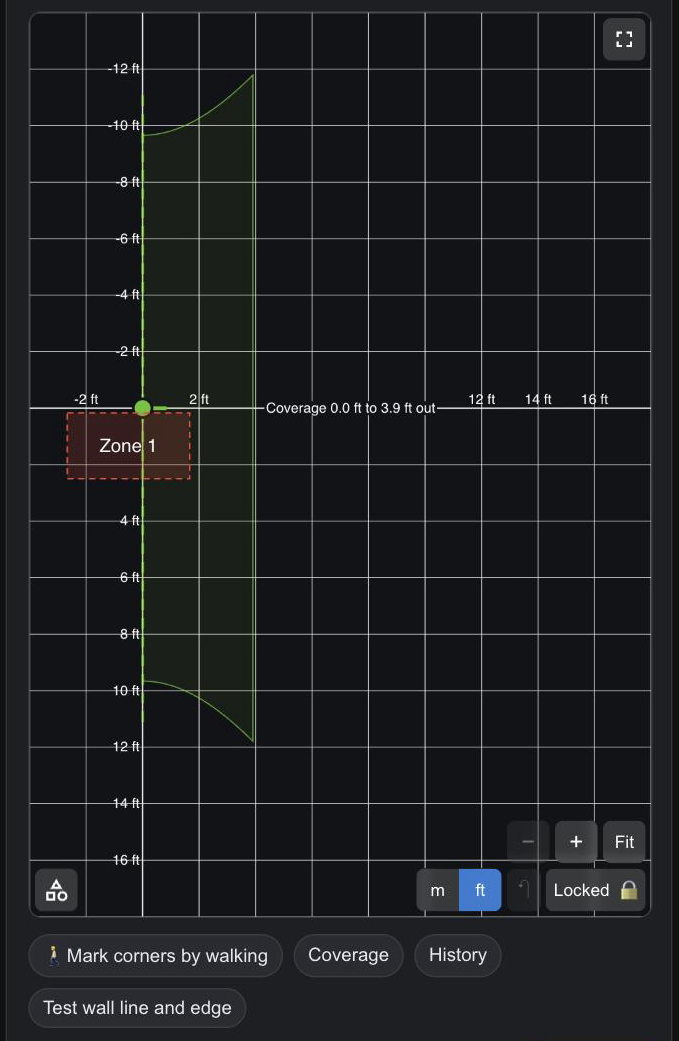
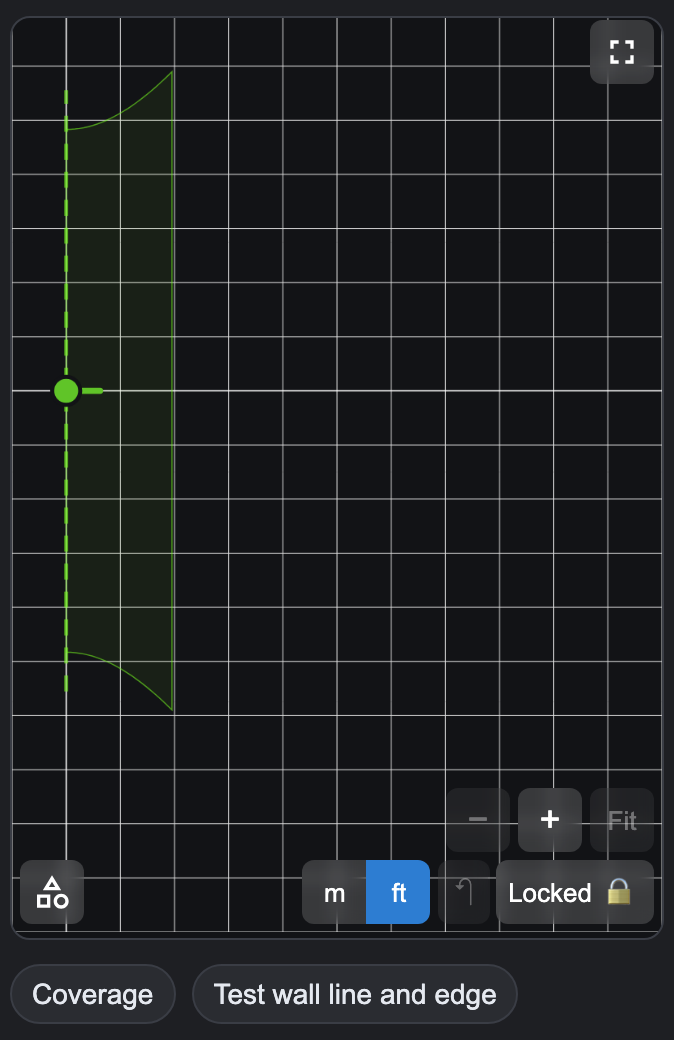
Address review on the Apollo mmWave Dashboard 2.5.2 guide
- Turned ceiling map: plain wording for 180 degrees and Expand, no
  promise that the empty space is gone, and a zone-free 90 degree
  capture rendered from the 2.5.2 card so no zone sits past the wall line.
- LD2460 Ceiling saved but Wall used: say the note stays on a wall
  mount, where to look for the radar's installation setting, and add
  the device restart, since the mode is read when the device starts.
- Alt text matches the pictures.

diff --git a/docs/products/general/setup/apollo-mmwave-mounting.md b/docs/products/general/setup/apollo-mmwave-mounting.md
@@ -30,7 +30,7 @@ Here's how the map changes on a real R PRO-1 as you switch between **Wall**, **H
 
 !!! note "Before you start"
 
-    - **Apollo mmWave Dashboard 2.5.1 or later.** To see your version, open **Apollo mmWave Dashboard** under **Settings → Marketplace** (or in **HACS** on Home Assistant 2026.10 and earlier). If **Settings → System → Updates** lists an Apollo mmWave Dashboard update, install it first, as [Update Apollo mmWave Dashboard](apollo-mmwave-dashboard-setup.md#update-apollo-mmwave) shows. Then restart Home Assistant and reload the page, as [Load the new cards](apollo-mmwave-dashboard-setup.md#load-the-new-cards) shows. Version 2.4.2 and earlier have no mounts, and on 2.5.0 a ceiling map is tall with empty space under the strip. On 2.5.1, a ceiling map turned with **Map rotation:** is a big square that's mostly empty, so update to 2.5.2 if you plan to turn it.
+    - **Apollo mmWave Dashboard 2.5.1 or later.** To see your version, open **Apollo mmWave Dashboard** under **Settings → Marketplace** (or in **HACS** on Home Assistant 2026.10 and earlier). If **Settings → System → Updates** lists an Apollo mmWave Dashboard update, install it first, as [Update Apollo mmWave Dashboard](apollo-mmwave-dashboard-setup.md#update-apollo-mmwave) shows. Then restart Home Assistant and reload the page, as [Load the new cards](apollo-mmwave-dashboard-setup.md#load-the-new-cards) shows. Version 2.4.2 and earlier have no mounts, and on 2.5.0 a ceiling map is tall with empty space under the strip. On 2.5.1, a ceiling map turned with **Map rotation:** stays square, so update to 2.5.2 if you plan to turn it.
     - **You're signed in to Home Assistant as an administrator.** Other users see the mount but can't change it.
     - **Your sensor's tab has a zone map.** If it doesn't, start with the [Apollo mmWave Dashboard setup guide](apollo-mmwave-dashboard-setup.md).
     - **The Radar setup card on that tab shows no problems.** If it offers a button such as **Set Zone Type to Disabled**, press it first. Otherwise the map can't show people.
@@ -140,11 +140,11 @@ From the ceiling, an LD2450 watches a strip of floor along one wall. That's a go
 
     !!! tip "Turned the map? It gets taller"
 
-        From 2.5.2, the map fits a turned strip. Near 90°, the strip runs down the map instead of across it, so the map gets taller than it is wide, up to 1.5 times its width. At 180°, the room for the buttons in the map's bottom corners stays under the strip. On a phone, **Expand** keeps the turned map above its panel. You should see the strip run down the map, with the radar as a green dot on the dashed wall line, as here at 90°:
+        From 2.5.2, the map changes shape to fit a turned strip. Near 90°, the strip runs down the map instead of across it, so the map gets taller than it is wide, up to 1.5 times its width. At 180°, the zoom and **Locked** buttons stay clear of the strip. On a phone, after you press **Expand**, the map stays at the top with the rest of the card under it. You should see the strip run down the map, with the radar as a green dot on the dashed wall line, as here at 90°:
 
-        ![The zone map on a Ceiling mount with Map rotation at 90 degrees, in feet and locked, on a dark theme: the map is taller than it is wide, the dashed green wall line runs down its left side with the radar as a green dot on it, the strip of coverage runs down beside the line, about 4 ft wide and 19 ft long, with the caption Coverage 0.0 ft to 3.9 ft out, Zone 1 next to the radar, and the Mark corners by walking, Coverage, History, and Test wall line and edge buttons under the map](/assets/apollo-mmwave-mount-ceiling-map-rotated.png)
+        ![The zone map on a Ceiling mount with Map rotation at 90 degrees, in feet and locked, on a dark theme: the map is taller than it is wide, the dashed green wall line runs down the map near its left edge with the radar as a green dot on it, the strip of coverage runs down beside the line on the room side, and the Coverage and Test wall line and edge buttons are under the map](/assets/apollo-mmwave-mount-ceiling-map-rotated.png)
 
-        On 2.5.1, a turned map is a big square with the strip in a small part of it. [Update to 2.5.2](apollo-mmwave-dashboard-setup.md#update-apollo-mmwave) to fix it.
+        The strip may fill only part of the map's width. That's expected: use **+** to zoom in on it. On 2.5.1, a turned map stays square. [Update to 2.5.2](apollo-mmwave-dashboard-setup.md#update-apollo-mmwave) to get the taller map.
 
 The strip is now on the map, on the room side of the wall line. Next, [check that it works](#test-the-edges).
 
@@ -162,7 +162,7 @@ An LD2460 tracks up to 5 people. Its tab works like an LD2450 tab, and its **Map
 
     !!! tip "If the line reads Wall but you picked Ceiling"
 
-        You may have pressed **Ceiling** while **Installation Mode** was missing, and the radar now reports **side**. The radar's report wins, so the map uses Wall. From 2.5.2, a note under **Mounted on** says so. You should see **In use: Wall. The radar reports a wall mount.** and a note that starts **Ceiling is saved here, but the radar reports a side (wall) mount, so Wall is used.** To use Ceiling, set the radar to **top**, as [Map settings says Ceiling is saved, but Wall is used](#ceiling-saved-but-wall-used) shows.
+        You may have pressed **Ceiling** while **Installation Mode** was missing, and the radar now reports **side**. The radar's report wins, so the map uses Wall. From 2.5.2, a note under **Mounted on** says so. You should see **In use: Wall. The radar reports a wall mount.** and a note that starts **Ceiling is saved here, but the radar reports a side (wall) mount, so Wall is used.** To use Ceiling, set the radar to **top** and restart the device, as [Map settings says Ceiling is saved, but Wall is used](#ceiling-saved-but-wall-used) shows.
 
 4. On a ceiling, type the floor-to-ceiling height in **Ceiling height**. You should see a line such as **The radar covers up to 13.1 ft out from the spot under it, its most.** (about 4 m). Above 3 m (9.8 ft), people far from the middle may be missed.
 
@@ -302,12 +302,13 @@ This note shows on an LD2460 when **Ceiling** was saved for the radar (for examp
 
 **Ceiling is saved here, but the radar reports a side (wall) mount, so Wall is used. Its Installation Mode is set on the radar itself and only read here, under LD2460 Live. Ceiling is used when the radar reports top (ceiling), and again if it reports no mode at all, since Ceiling stays saved. While the radar is unavailable, its last report is kept.**
 
-![Map settings on an LD2460 zone map: Mounted on with Wall and Ceiling grayed out and Wall picked, the line In use: Wall. The radar reports a wall mount., and under it the note Ceiling is saved here, but the radar reports a side (wall) mount, so Wall is used. Its Installation Mode is set on the radar itself and only read here, under LD2460 Live. Ceiling is used when the radar reports top (ceiling), and again if it reports no mode at all, since Ceiling stays saved. While the radar is unavailable, its last report is kept.](/assets/apollo-mmwave-ld2460-mount-conflict.png)
+![Map settings on an LD2460 zone map: Mounted on with Wall picked in blue and Ceiling in gray, both locked by the radar, the line In use: Wall. The radar reports a wall mount., and under it the note Ceiling is saved here, but the radar reports a side (wall) mount, so Wall is used. Its Installation Mode is set on the radar itself and only read here, under LD2460 Live. Ceiling is used when the radar reports top (ceiling), and again if it reports no mode at all, since Ceiling stays saved. While the radar is unavailable, its last report is kept.](/assets/apollo-mmwave-ld2460-mount-conflict.png)
 
-1. Check how the radar really hangs. If it's on a wall, the map is right. Nothing else to do.
-2. If it's on the ceiling, change the installation setting on the radar itself to top (ceiling), where your device's firmware offers one. The dashboard can't change it.
-3. On the sensor's tab, find **Installation Mode** on the **LD2460 Live** card. You should see **top**.
-4. Open **Map settings**. You should see **In use: Ceiling. The radar reports a ceiling mount.**, and the note is gone.
+1. Check how the radar really hangs. If it's on a wall, the map is right and there's nothing to fix. You should see the note stay. That's fine: the map uses Wall, and the note only reminds you that Ceiling is saved.
+2. If it's on the ceiling, set the radar's own installation setting to top (ceiling). The dashboard can't change it. Open **Settings → Devices & services → ESPHome**, then your sensor, and look for an installation setting under **Configuration**. If there's none, your device's firmware sets the mode, so check its own guide. You should see the setting read top (ceiling).
+3. Restart the device, because the radar's mode is read when the device starts. On the **Device** card at the bottom of the sensor's tab, press **Restart** on the row that starts with **Restart device**, then confirm. You should see the sensor go offline for a short while and come back.
+4. On the sensor's tab, find **Installation Mode** on the **LD2460 Live** card. You should see **top**.
+5. Open **Map settings**. You should see **In use: Ceiling. The radar reports a ceiling mount.**, and the note is gone.
 
 If the radar stops reporting a mode at all, the saved **Ceiling** is used again. While the radar is unavailable, the card keeps its last report, so the note can stay until the radar is back.
 

diff --git a/docs/products/general/setup/apollo-mmwave-dashboard.md b/docs/products/general/setup/apollo-mmwave-dashboard.md
@@ -11,7 +11,7 @@ Every tab starts with a **Start here** card that lists your sensor's first steps
 
 !!! info "What's new in 2.5.2"
 
-    - **A turned ceiling map that fits.** With **Map rotation:** turned on a ceiling LD2450, the map now fits the strip as it's turned. Near 90° the strip runs down the map, and the map is taller than it is wide (up to 1.5 times its width) instead of a big square that was mostly empty. At 180° the room for the buttons in the map's bottom corners is under the strip again. On a phone, **Expand** keeps a turned map above its panel: [Mount an LD2450 on the ceiling](/products/general/setup/apollo-mmwave-mounting.md#mount-an-ld2450-on-the-ceiling).
+    - **A turned ceiling map that fits.** When you turn **Map rotation:** away from 0° on a ceiling LD2450, the map now changes shape to fit the turned strip. Near 90° the strip runs down the map, and the map is taller than it is wide (up to 1.5 times its width) instead of square. At 180°, the zoom and **Locked** buttons stay clear of the strip. On a phone, after you press **Expand**, the map stays at the top with the rest of the card under it: [Mount an LD2450 on the ceiling](/products/general/setup/apollo-mmwave-mounting.md#mount-an-ld2450-on-the-ceiling).
     - **Adding a zone closes History.** Pressing **Add whole-room zone** or **Add coverage zone** now closes the History replay first, as **Draw shape** does.
     - **A note when an LD2460 overrides a saved Ceiling.** If **Ceiling** is saved but the radar reports a side (wall) mount, **Map settings** now explains that Wall is used and how to change it: [Map settings says Ceiling is saved, but Wall is used](/products/general/setup/apollo-mmwave-mounting.md#ceiling-saved-but-wall-used).
 
